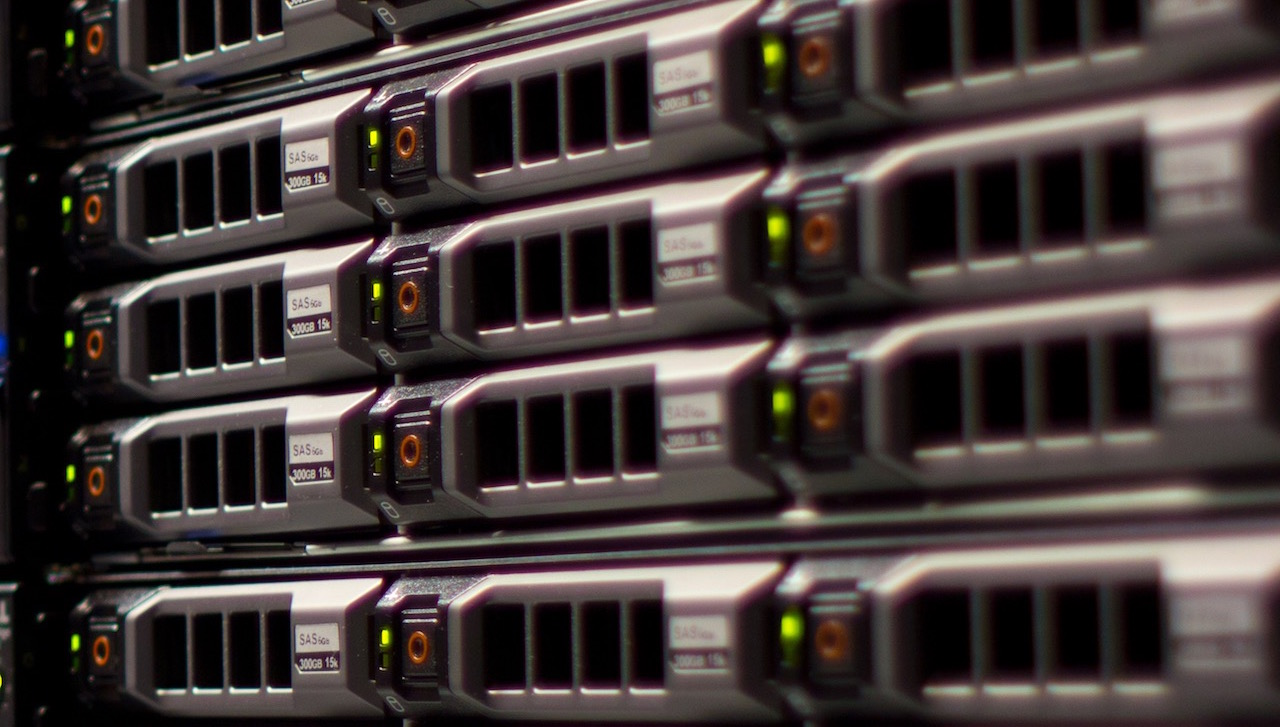
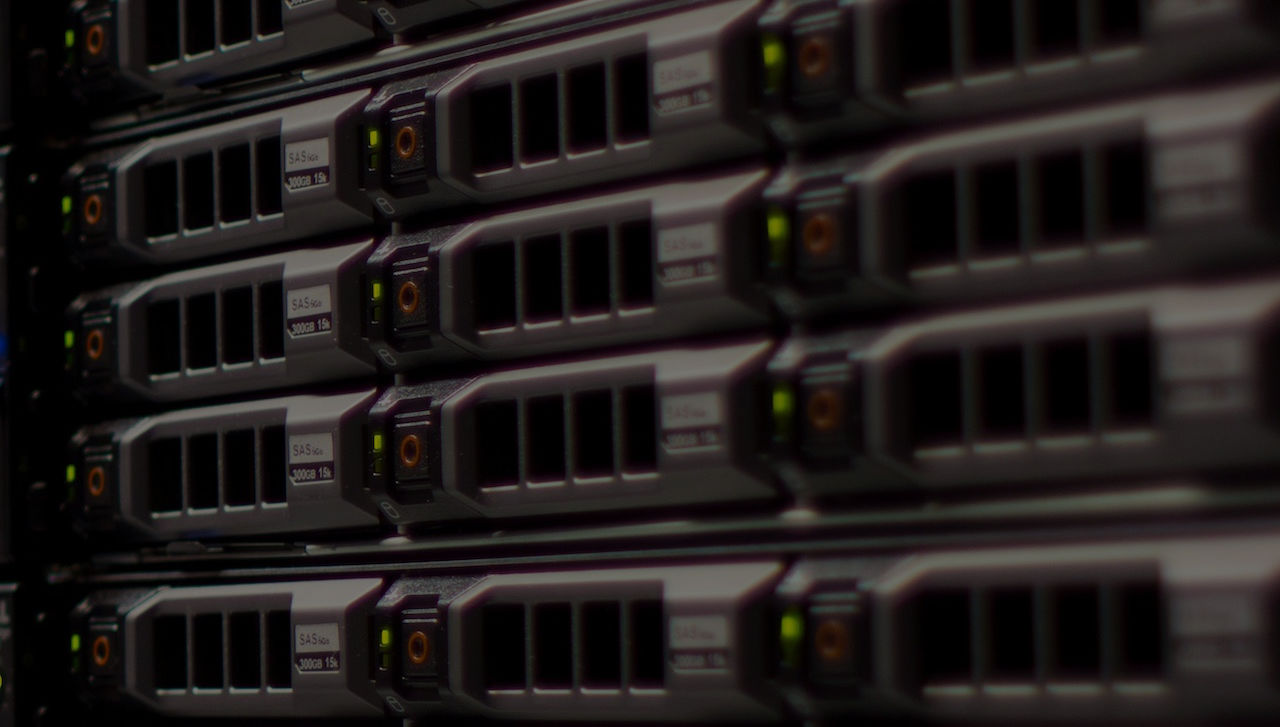
Update content

diff --git a/assets/css/main.css b/assets/css/main.css
@@ -7,11 +7,6 @@ body {
   padding-top: 50px;
 }
 
-.start-jumbo {
-  padding: 60px 15px;
-  text-align: center;
-}
-
 .navbar {
   background-color: #ef5350;
   min-height: 56px;
@@ -35,6 +30,7 @@ body {
   color: rgba(255,255,255,.8);
 }
 
+
 #wrap {
   min-height: 100%;
 }
@@ -44,12 +40,18 @@ body {
   padding-bottom:60px; /* this needs to be bigger than footer height*/
 }
 
+.start-jumbo {
+  padding: 60px 15px;
+  text-align: center;
+}
+
 section.jumbo {
   height: 180px;
   display: flex;
   flex-direction: column;
   justify-content: center;
   color: #FFF;
+  background-image: url('../images/header.jpg');
 }
 
 section.page-section {
